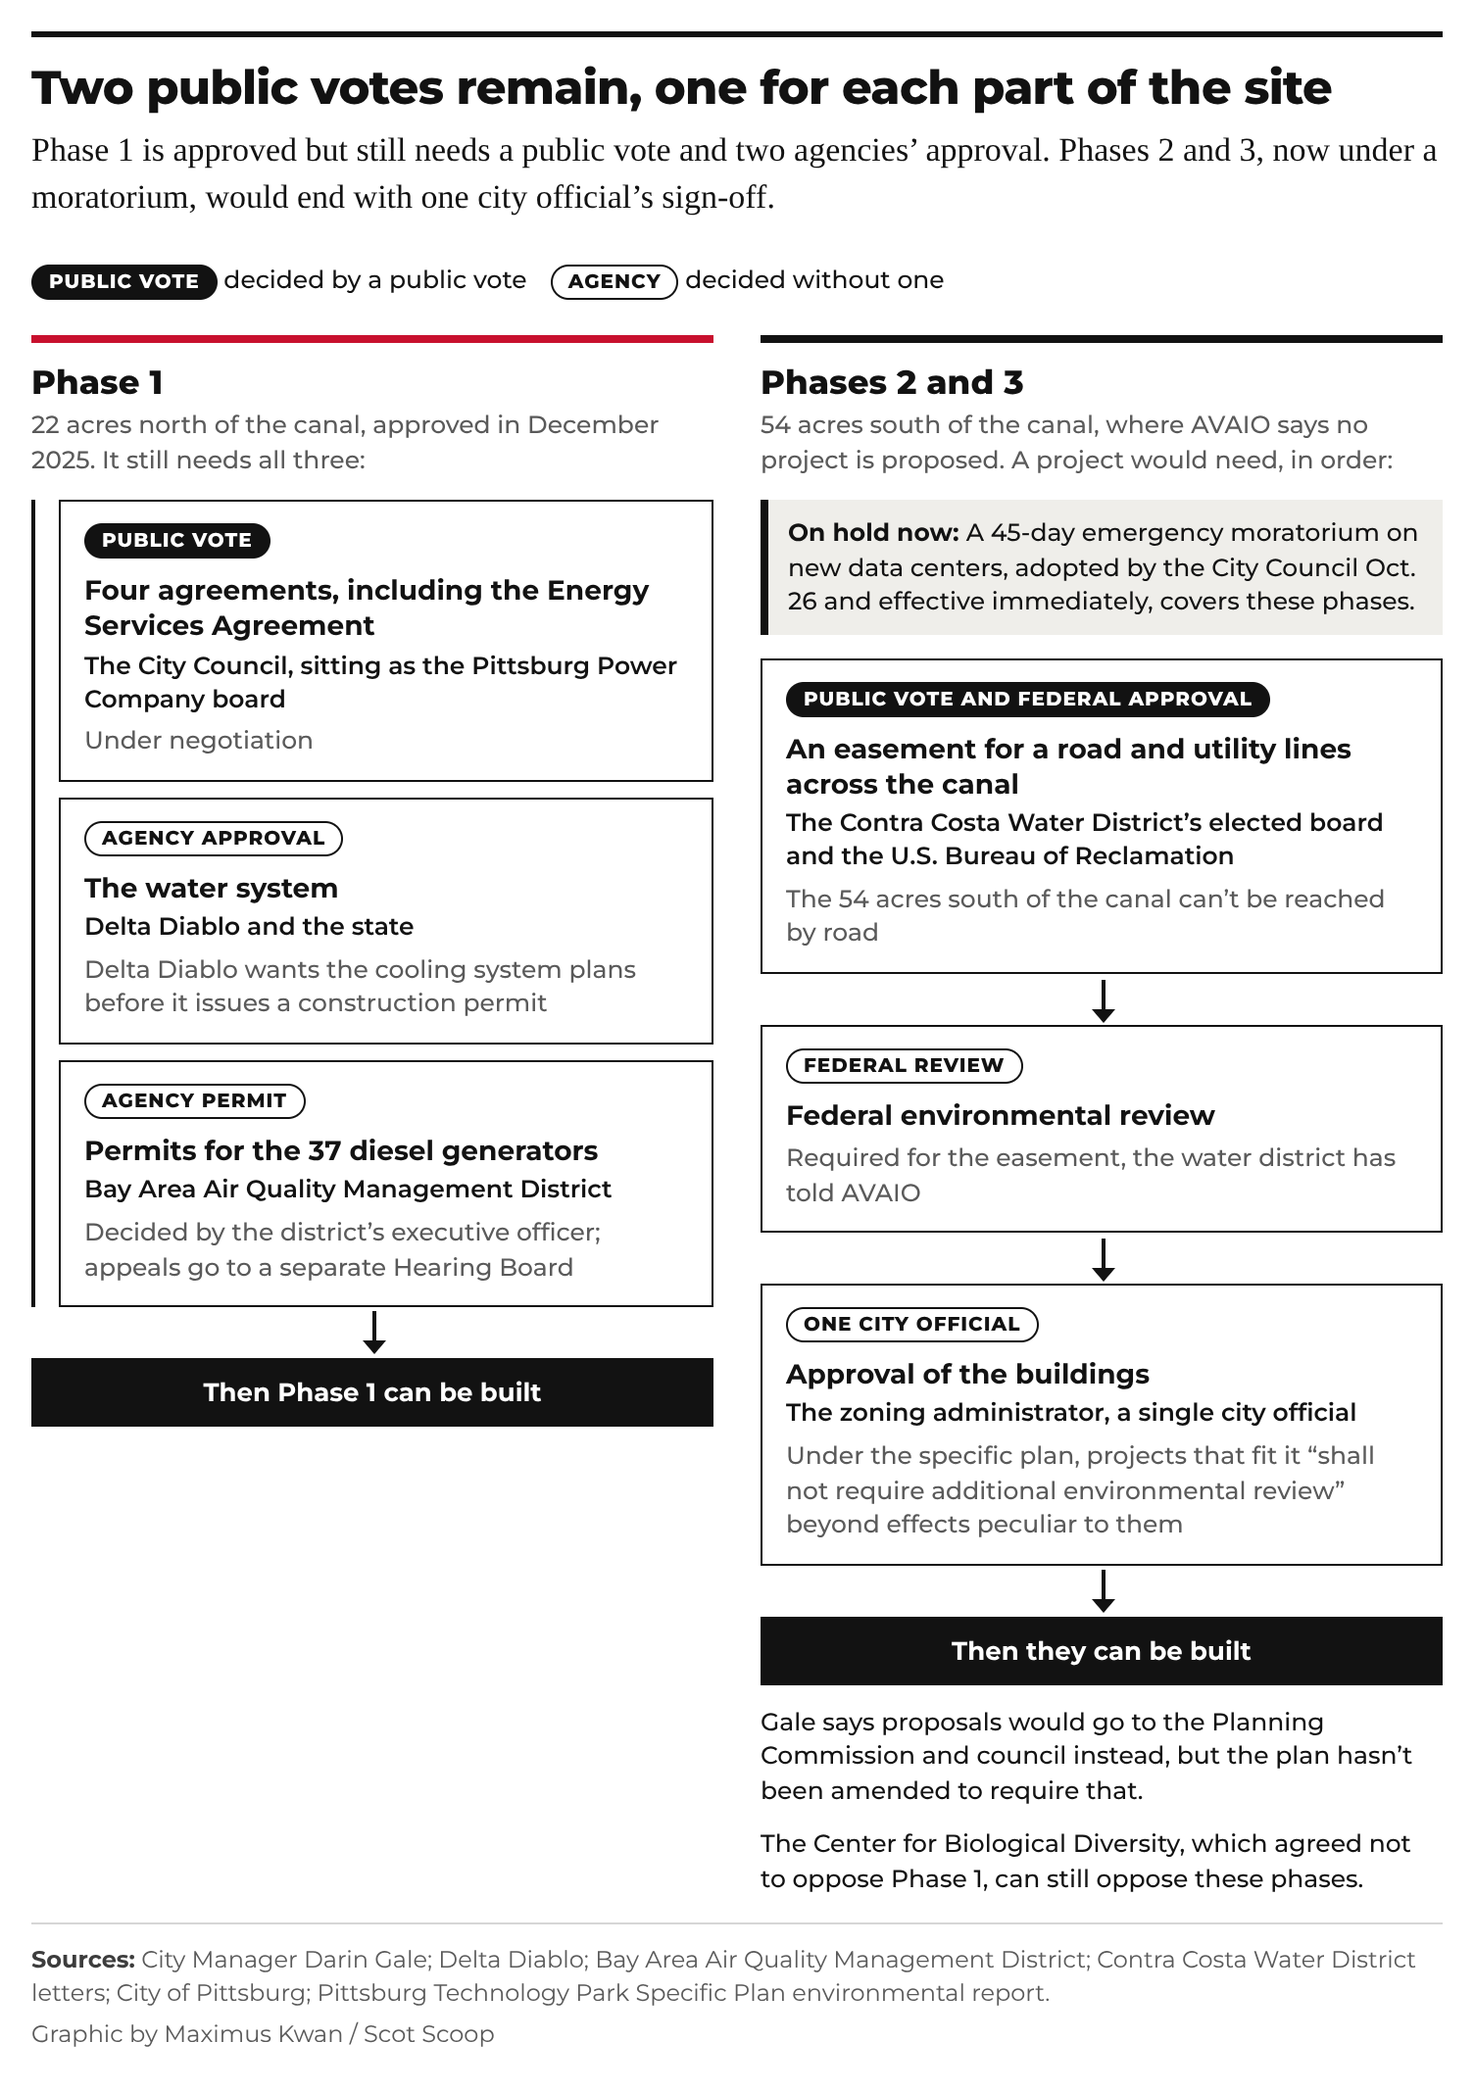
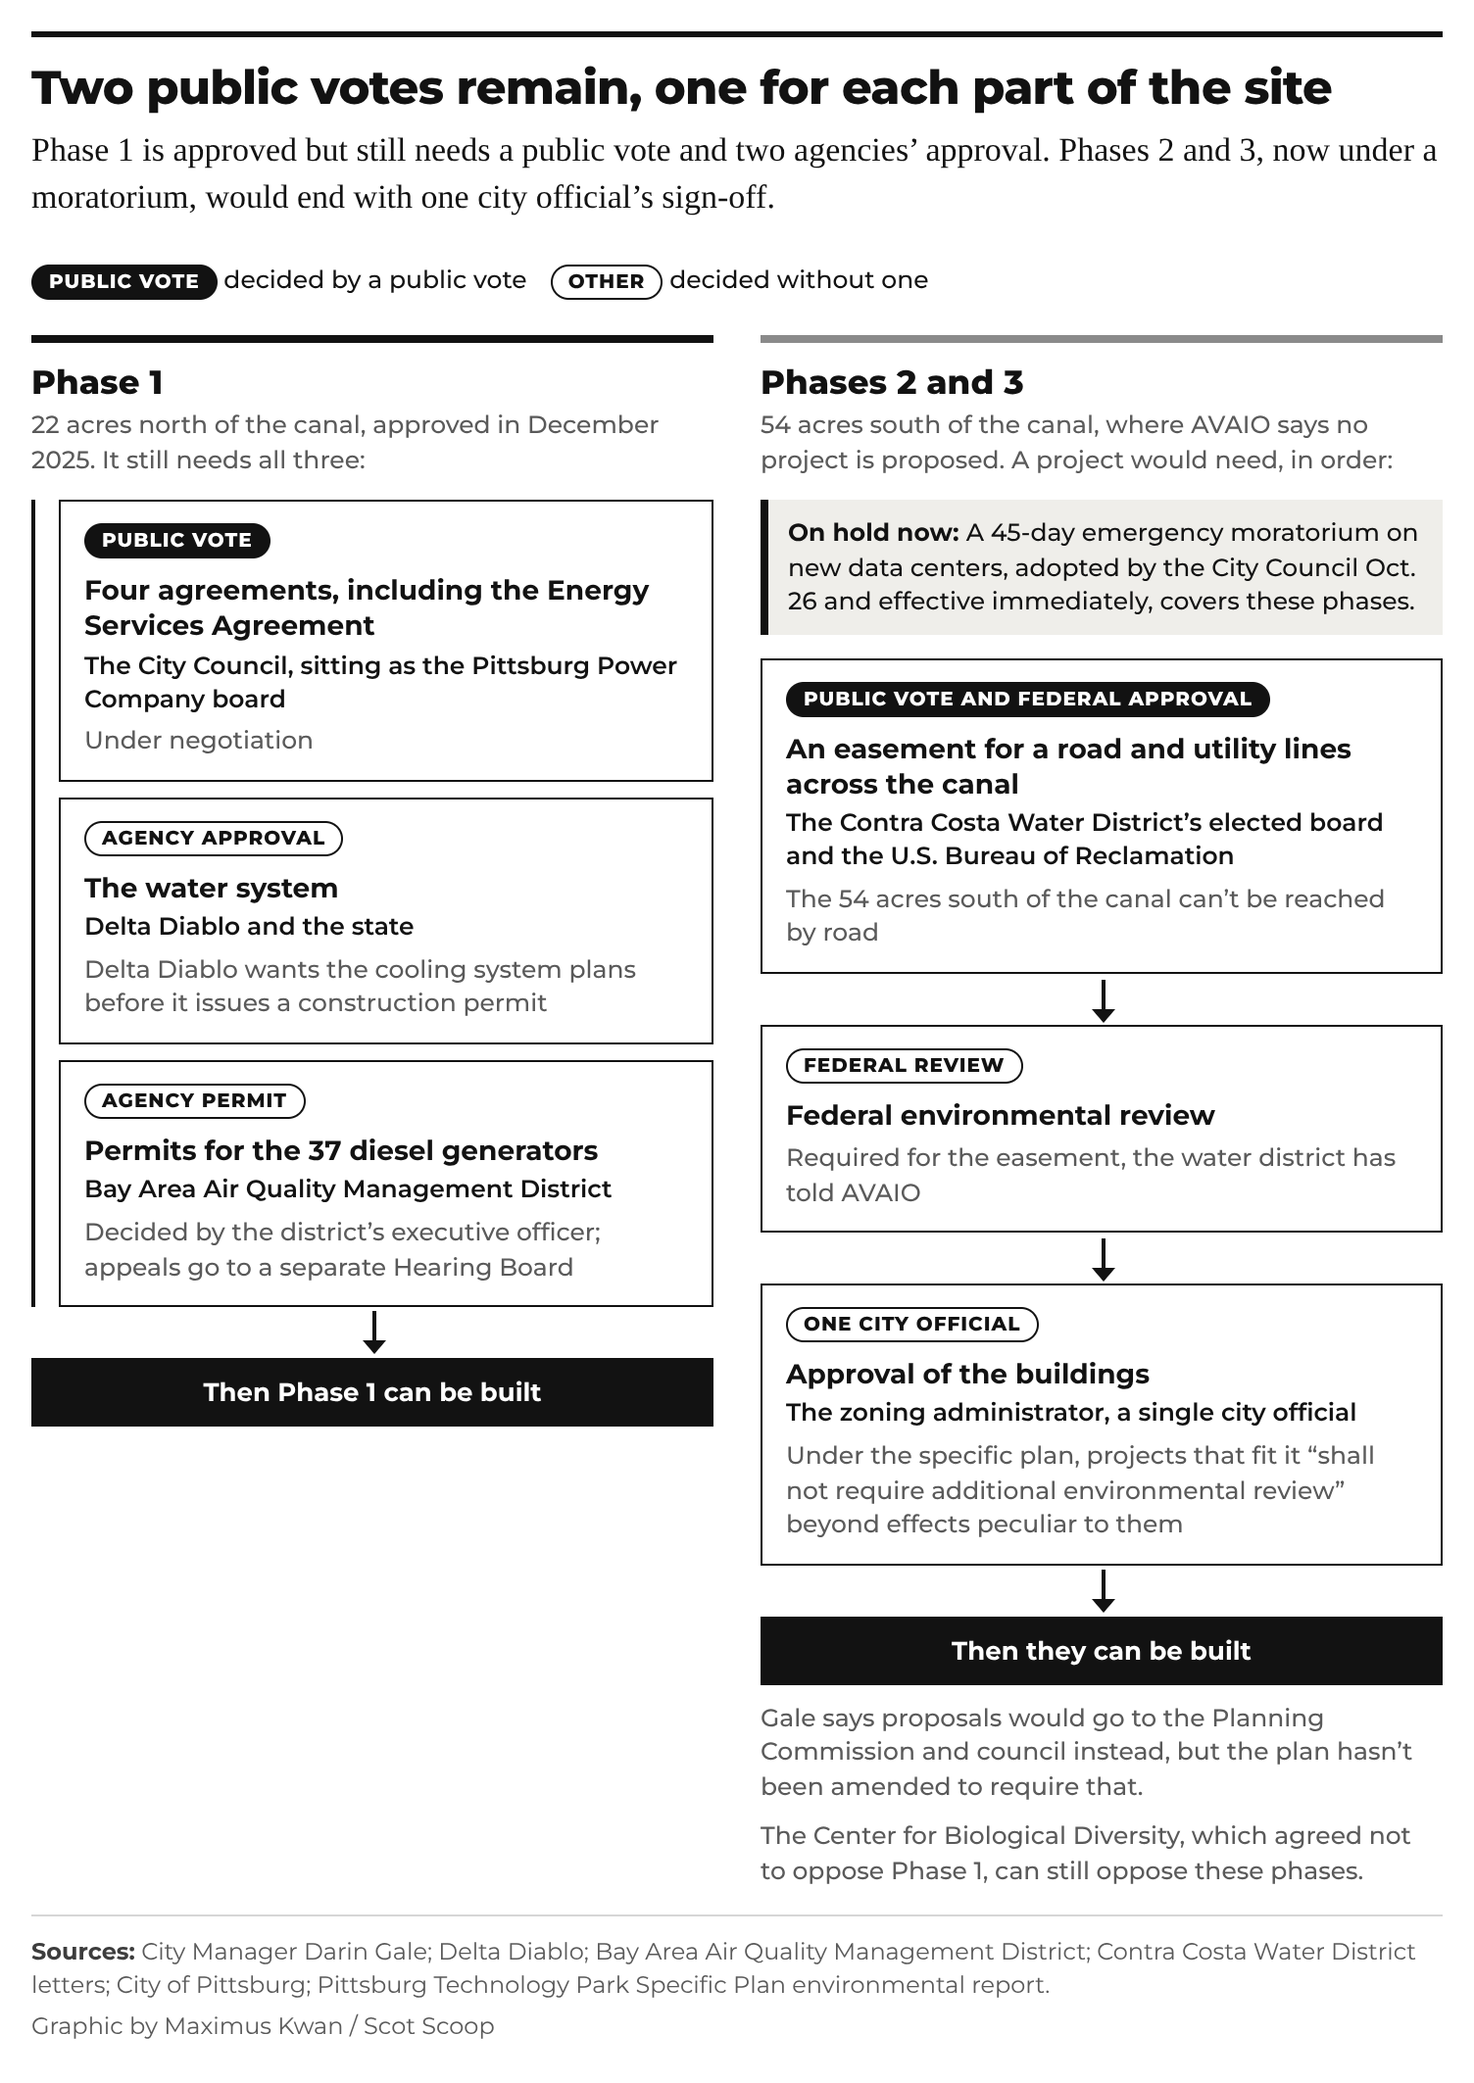
Refine phase colors, caveats, water chart spacing and print breaks
- Approvals: Phase 1 rule black and Phases 2-3 gray, matching the map;
  the outlined legend pill reads "Other".
- One in-graphic caveat style (.ph-caveat, gray sans) in
  shared/graphic.css. The redline's Brown Act line moves to the footer
  note; the approvals notes and the recycled-water caveat use .ph-caveat.
- Recycled water: the settlement's rule now sits between the shortage and
  the fallbacks, since "absent a disruption" is why the fallbacks are
  allowed.
- Water chart: labels and notes 6px clear of the axis, regular gray tick
  labels, and a 2px minimum bar width so tiny bars stay visible.
- text-wrap: balance on headlines, pretty on deks.
- Timeline: "2019" back in its date column; the nine-days box, entries
  and year labels don't break across printed pages.
- PNGs regenerated.

Claude-Session: https://claude.ai/code/session_016Gic3dbrTzcyN2QJKKvPPx

diff --git a/graphics/water-use/graphic.js b/graphics/water-use/graphic.js
@@ -96,11 +96,11 @@ export default async function draw(ctx) {
   };
   const FONT = { label: `600 12.5px ${C.sans}`, value: `700 14px ${C.sans}`, note: `500 11.5px ${C.sans}` };
   const TEXT = {
-    label: { textAnchor: 'start', fontSize: 12.5, fontWeight: 600 },
+    label: { textAnchor: 'start', fontSize: 12.5, fontWeight: 600, dx: 6 }, // clear of the axis line
     valueOut: { textAnchor: 'start', fontSize: 13.5, fontWeight: 700, lineAnchor: 'middle', dx: 6 },
     valueTop: { textAnchor: 'end', fontSize: 13.5, fontWeight: 700, lineAnchor: 'top' },
-    note: { textAnchor: 'start', fontSize: 11.5, fontWeight: 500 },
-    strong: { textAnchor: 'start', fontSize: 11.5, fontWeight: 700 },
+    note: { textAnchor: 'start', fontSize: 11.5, fontWeight: 500, dx: 6 },
+    strong: { textAnchor: 'start', fontSize: 11.5, fontWeight: 700, dx: 6 },
   };
   await Promise.all([document.fonts.load(FONT.label), document.fonts.load(FONT.value)]).catch(() => {});
 
@@ -129,9 +129,12 @@ export default async function draw(ctx) {
         y += (short.length - lines.length) * 15.5;
         texts[texts.length - 1].y = y - 15.5 - 4;
       }
+      // Bars too thin to see at this scale still get 2px, so their label has something to attach to.
+      const minW = (2 / (right - 5)) * p.max;
       for (const sgm of row.segments) {
-        // Bars too thin to see at this scale still get a hairline.
-        marks.push({ ...sgm, x2: Math.min(p.max, sgm.x2), y1: y, y2: y + 16 });
+        const x2 = Math.min(p.max, sgm.x2);
+        if (sgm.outline && x2 - sgm.x1 < minW) continue; // an outline that thin would just be a smudge
+        marks.push({ ...sgm, x2: sgm.outline ? x2 : Math.max(x2, sgm.x1 + minW), y1: y, y2: y + 16 });
       }
       y += 16;
       const notes = p.notes?.[id] || [];
@@ -150,14 +153,12 @@ export default async function draw(ctx) {
         Plot.gridX(p.ticks, { stroke: C.rule, strokeOpacity: 1, y1: 0, y2: height - 22 }),
         Plot.rect(marks.filter((m) => !m.outline), { x1: 'x1', x2: 'x2', y1: 'y1', y2: 'y2', fill: 'fill' }),
         Plot.rect(marks.filter((m) => m.outline), { x1: 'x1', x2: 'x2', y1: 'y1', y2: 'y2', fill: '#fff', stroke: C.ink, strokeWidth: 1.2, inset: 0.6 }),
-        // A hairline at each bar's end, so the tiny ones are still visible.
-        Plot.ruleX(marks.filter((m) => m.x2 / p.max < 0.004), { x: 'x2', y1: 'y1', y2: 'y2', stroke: 'fill', strokeWidth: 1.5 }),
         Plot.ruleX([0], { stroke: C.ink, y1: 0, y2: height - 22 }),
         // Plot takes one anchor, size and weight per mark, so one text mark per kind.
         ...Object.entries(TEXT).map(([kind, style]) => Plot.text(texts.filter((t) => t.kind === kind), {
           x: 'x', y: 'y', text: 'text', fill: 'fill', lineAnchor: 'top', lineHeight: 1.24, ...style,
         })),
-        Plot.axisX(p.ticks, { tickFormat: p.tick, tickSize: 0, tickPadding: 6, fontSize: 11, fill: C.muted, anchor: 'bottom' }),
+        Plot.axisX(p.ticks, { tickFormat: p.tick, tickSize: 0, tickPadding: 6, fontSize: 11, fontWeight: 400, fill: C.muted, anchor: 'bottom' }),
       ].filter(Boolean),
     });
     svg.setAttribute('aria-hidden', 'true');

diff --git a/graphics/deal-timeline/graphic.css b/graphics/deal-timeline/graphic.css
@@ -2,7 +2,7 @@
    highlight that follows the reader is ink, and the nine-days box is plain. */
 .tl { position: relative; }
 .tl-year { position: relative; margin: 0; padding: 0 0 6px; }
-.tl-year__label { position: relative; margin: 0 0 6px; padding-left: 22px; font: var(--type-label); font-size: 14px; letter-spacing: 0.04em; color: var(--ink); }
+.tl-year__label { break-after: avoid; page-break-after: avoid; position: relative; margin: 0 0 6px; padding-left: 22px; font: var(--type-label); font-size: 14px; letter-spacing: 0.04em; color: var(--ink); }
 .tl-year__label::before { content: ''; position: absolute; left: 1px; top: 2px; width: 11px; height: 11px; background: var(--ink); }
 .tl-list { list-style: none; margin: 0; padding: 0; }
 .tl-entry { position: relative; margin: 0 0 0 5.5px; padding: 0 0 14px 16px; border-left: 2px solid var(--gray-light); }
@@ -12,7 +12,6 @@
   transition: background-color 0.25s ease, border-color 0.25s ease, transform 0.25s ease;
 }
 .tl-date { margin: 0 0 2px; font: 700 13px/1.3 var(--sans); color: var(--ink); }
-.tl-date:empty { display: none; }
 .tl-text { margin: 0 0 2px; font: var(--type-body); color: var(--ink); }
 .tl-entry--key .tl-text { font-weight: 700; }
 .tl-entry--key::before { background: var(--ink); border-color: var(--ink); }
@@ -25,7 +24,8 @@
 .tl-live .tl-entry.is-active { border-left-color: var(--ink); }
 
 /* The nine days */
-.tl-nine { margin: 4px 0 18px 5.5px; padding: 12px 12px 4px; border: var(--box-border); background: #fff; }
+.tl-nine { margin: 4px 0 18px 5.5px; padding: 12px 12px 4px; border: var(--box-border); background: #fff; break-inside: avoid; page-break-inside: avoid; }
+.tl-entry { break-inside: avoid; page-break-inside: avoid; }
 .tl-nine__title { margin: 0 0 2px; font: var(--type-label); font-size: 12px; letter-spacing: var(--label-spacing); text-transform: uppercase; color: var(--ink); }
 .tl-nine__dek { margin: 0 0 10px; font: var(--type-body); color: var(--ink); }
 .tl-days { display: grid; grid-template-columns: repeat(9, 1fr); gap: 2px; margin: 0 0 14px; }
@@ -57,7 +57,6 @@ button.tl-day:hover, button.tl-day:focus-visible { background: var(--mark); }
 @container (min-width: 560px) {
   .tl-entry { display: grid; grid-template-columns: 128px 1fr; column-gap: 14px; }
   .tl-date { margin: 0; }
-  .tl-date:empty { display: block; }
   .tl-nine { padding: 14px 16px 6px; }
   .tl-days { gap: 3px; }
   .tl-day__what { display: block; margin-top: 4px; padding: 0 3px; text-align: center; font: 600 10.5px/1.2 var(--sans); color: var(--ink); overflow-wrap: anywhere; }

diff --git a/graphics/committee-redline/index.html b/graphics/committee-redline/index.html
@@ -21,7 +21,7 @@
     <p class="ph-dek">Hours before the Aug. 3 meeting, a city consultant’s draft had the advisory committee advising the City Council. Replies typed into her email changed that.</p>
     <p class="ph-sr-only ph-desc" id="desc">The draft described the committee’s purpose as advising the City Council and its length of service as 4 months. Replies typed into the email said the members would advise the city manager, so the meetings would not be Brown Act meetings, and that 4 months could look like an attempt to finish before the new council. Sovinec suggested “over the next several months,” Gale wrote “That sounds good,” and the phrase went into the city’s news release.</p>
     <div class="ph-body"></div>
-    <figcaption class="ph-foot"><p class="ph-note"><b>Note:</b> Replies are quoted as typed.</p><p class="ph-source"><b>Source:</b> City of Pittsburg emails, Aug. 3, 2026.</p><p class="ph-credit">Graphic by Maximus Kwan / Scot Scoop</p></figcaption>
+    <figcaption class="ph-foot"><p class="ph-note"><b>Note:</b> Replies are quoted as typed. Because the committee advises the city manager, the Brown Act, California’s open-meetings law, does not apply, Gale said.</p><p class="ph-source"><b>Source:</b> City of Pittsburg emails, Aug. 3, 2026.</p><p class="ph-credit">Graphic by Maximus Kwan / Scot Scoop</p></figcaption>
   </figure>
   <script type="module">import('../../shared/kit.js?v=' + window.PH_V).then((kit) => kit.standalone());</script>
 </body>

diff --git a/graphics/water-priority/graphic.js b/graphics/water-priority/graphic.js
@@ -31,6 +31,11 @@ export default async function draw(ctx) {
     queue,
     h('p', { class: 'wp-arrow', 'aria-hidden': 'true' }),
     box('wp-shortage', row('shortage')),
+    h('p', { class: 'wp-arrow', 'aria-hidden': 'true' }),
+    // The rule comes before the fallbacks: "absent a disruption" is why they're allowed.
+    h('div', { class: 'ph-box wp-box wp-rule' },
+      h('p', { class: 'wp-kicker', text: settle.label }),
+      h('p', { class: 'wp-detail wp-detail--ink', text: `${settle.detail[0].toUpperCase()}${settle.detail.slice(1)}. So during a shortage, other water is allowed.` })),
     h('p', { class: 'ph-label wp-gap', text: 'If AVAIO is cut off' }),
     h('div', { class: 'wp-fallbacks' },
       h('div', { class: 'ph-box wp-box' },
@@ -41,8 +46,5 @@ export default async function draw(ctx) {
         h('p', { class: 'wp-kicker', text: 'The city’s 2019 promise' }),
         h('p', { class: 'wp-title', text: 'Find the water elsewhere, in this order' }),
         chain)),
-    h('p', { class: 'wp-unsaid', text: 'The records don’t say whether the tank or the city’s promise would come first.' }),
-    h('div', { class: 'ph-box wp-box wp-rule' },
-      h('p', { class: 'wp-kicker', text: settle.label }),
-      h('p', { class: 'wp-detail wp-detail--ink', text: `${settle.detail[0].toUpperCase()}${settle.detail.slice(1)}.` }))));
+    h('p', { class: 'ph-caveat', text: 'The records don’t say whether the tank or the city’s promise would come first.' })));
 }

diff --git a/shared/graphic.css b/shared/graphic.css
@@ -21,8 +21,8 @@
 }
 .ph-root *, .ph-root *::before, .ph-root *::after { box-sizing: border-box; }
 
-.ph-hed { margin: 0 0 6px; font: var(--type-hed-phone); letter-spacing: -0.015em; color: var(--ink); }
-.ph-dek { margin: 0 0 16px; font: var(--type-dek); font-size: 16px; color: var(--ink); }
+.ph-hed { margin: 0 0 6px; font: var(--type-hed-phone); letter-spacing: -0.015em; color: var(--ink); text-wrap: balance; }
+.ph-dek { margin: 0 0 16px; font: var(--type-dek); font-size: 16px; color: var(--ink); text-wrap: pretty; }
 .ph-body { position: relative; margin: 0 0 14px; }
 .ph-body svg { display: block; overflow: visible; }
 .ph-body svg text { font-family: var(--sans); }
@@ -33,6 +33,10 @@
 .ph-text { font: var(--type-body); color: var(--ink); margin: 0; }
 .ph-root a { color: inherit; text-decoration: underline; text-decoration-color: var(--gray); text-underline-offset: 2px; }
 .ph-root a:hover { color: var(--red); }
+
+/* The one style for a caveat inside a graphic. Anything else under a
+   graphic goes in the footer's Note. */
+.ph-caveat { margin: 8px 0 0; font: var(--type-small); color: var(--muted); text-wrap: pretty; }
 
 /* Footer: Note, Source, credit */
 .ph-foot { margin: 0; padding: 9px 0 2px; border-top: 1px solid var(--gray-light); font: var(--type-source); color: var(--muted); }

diff --git a/graphics/approvals-ahead/graphic.css b/graphics/approvals-ahead/graphic.css
@@ -8,7 +8,9 @@
 .ap-tag--vote { background: var(--ink); color: #fff; }
 .ap-lanes { display: grid; gap: 28px; }
 .ap-lane { border-top: 4px solid var(--ink); padding-top: 10px; }
-.ap-lane--phase1 { border-top-color: var(--red); }
+/* Same phase colors as the map: Phase 1 black, Phases 2-3 gray. */
+.ap-lane--phase1 { border-top-color: var(--ink); }
+.ap-lane--phases23 { border-top-color: var(--gray); }
 .ap-lane__title { margin: 0 0 3px; font: 800 17px/1.2 var(--sans); color: var(--ink); }
 .ap-sub { margin: 0 0 12px; font: var(--type-small); color: var(--muted); }
 .ap-banner { margin: 0 0 12px; padding: 8px 10px; background: var(--gray-wash); border-left: 4px solid var(--ink); font: var(--type-small); color: var(--ink); }
@@ -31,7 +33,7 @@
 .ap-arrow::before { top: 2px; }
 .ap-arrow::after { top: 17px; }
 .ap-end { margin: 0; padding: 9px 12px; background: var(--ink); color: #fff; text-align: center; font: 700 13px/1.3 var(--sans); }
-.ap-note { margin: 10px 0 0; font: var(--type-small); color: var(--ink); }
+
 
 @container (min-width: 620px) {
   .ap-lanes { grid-template-columns: 1fr 1fr; gap: 24px; }

diff --git a/graphics/approvals-ahead/graphic.js b/graphics/approvals-ahead/graphic.js
@@ -44,12 +44,12 @@ export default async function draw(ctx) {
       h('ol', { class: `ap-steps${id === 'phase1' ? ' ap-steps--all' : ' ap-steps--order'}` }, steps.map(step)),
       h('p', { class: 'ap-arrow', 'aria-hidden': 'true' }),
       h('p', { class: 'ap-end', text: L.end }),
-      ...(L.notes || []).map((n) => h('p', { class: 'ap-note', text: n })));
+      ...(L.notes || []).map((n) => h('p', { class: 'ph-caveat', text: n })));
   };
 
   ctx.$('.ph-body').replaceChildren(
     h('p', { class: 'ap-key' },
       h('span', { class: 'ap-key__item' }, tag('Public vote'), ' decided by a public vote'),
-      h('span', { class: 'ap-key__item' }, tag('Agency'), ' decided without one')),
+      h('span', { class: 'ap-key__item' }, tag('Other'), ' decided without one')),
     h('div', { class: 'ap-lanes' }, lane('phase1'), lane('phases23')));
 }

diff --git a/graphics/deal-timeline/graphic.js b/graphics/deal-timeline/graphic.js
@@ -21,8 +21,7 @@ export default async function draw(ctx) {
   // Every entry looks the same whether or not its record is online yet: a
   // "Record" toggle that opens the citation (a link once the CSV has a URL).
   const entry = (r) => h('li', { class: `tl-entry${r.key ? ' tl-entry--key' : ''}`, 'data-date': r.date_iso },
-    // A year-only date would repeat the year heading right above it.
-    h('p', { class: 'tl-date', text: r.date === r.date_iso.slice(0, 4) ? '' : r.date }),
+    h('p', { class: 'tl-date', text: r.date }),
     h('div', { class: 'tl-what' },
       h('p', { class: 'tl-text', text: r.text }),
       h('details', { class: 'tl-record' },

diff --git a/graphics/water-priority/graphic.css b/graphics/water-priority/graphic.css
@@ -20,7 +20,6 @@
 .wp-chain { list-style: none; margin: 6px 0 0; padding: 0; display: flex; flex-wrap: wrap; align-items: center; gap: 4px 6px; font: var(--type-small); color: var(--ink); }
 .wp-chain li span { display: inline-block; background: var(--mark); padding: 2px 7px; }
 .wp-chain li + li::before { content: '→'; margin-right: 6px; font-weight: 700; }
-.wp-unsaid { margin: 8px 0 18px; font: var(--type-small); color: var(--muted); }
 .wp-rule { border-color: var(--muted); }
 
 @container (min-width: 560px) {

diff --git a/graphics/committee-redline/graphic.js b/graphics/committee-redline/graphic.js
@@ -49,8 +49,6 @@ export default async function draw(ctx) {
     pair('purpose-draft', 'purpose-reply', true),
     pair('term-draft', 'term-reply', false, became));
 
-  const note = h('p', { class: 'ph-text rl-note', text: 'Because the committee advises the city manager, the Brown Act, California’s open-meetings law, does not apply, Gale said.' });
-
-  ctx.$('.ph-body').replaceChildren(email, note);
+  ctx.$('.ph-body').replaceChildren(email);
   ctx.flagDrafts();
 }

diff --git a/graphics/committee-redline/graphic.css b/graphics/committee-redline/graphic.css
@@ -16,7 +16,6 @@
 .rl-became { margin-top: 12px; }
 .rl-steps { list-style: none; margin: 6px 0 0; padding: 0; font: var(--type-small); color: var(--ink); }
 .rl-steps li { margin: 0 0 2px; }
-.rl-note { margin: 14px 0 4px; }
 
 @container (min-width: 560px) {
   .rl-pair { grid-template-columns: 1fr 1.6fr; gap: 16px; align-items: start; }
